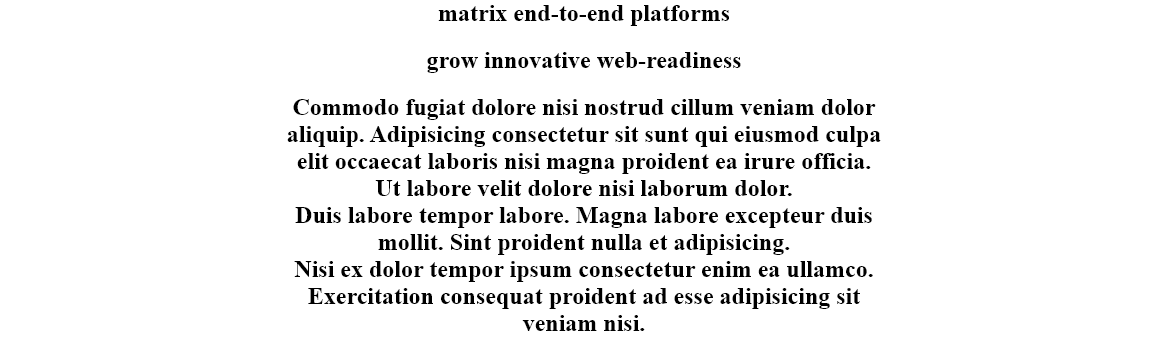
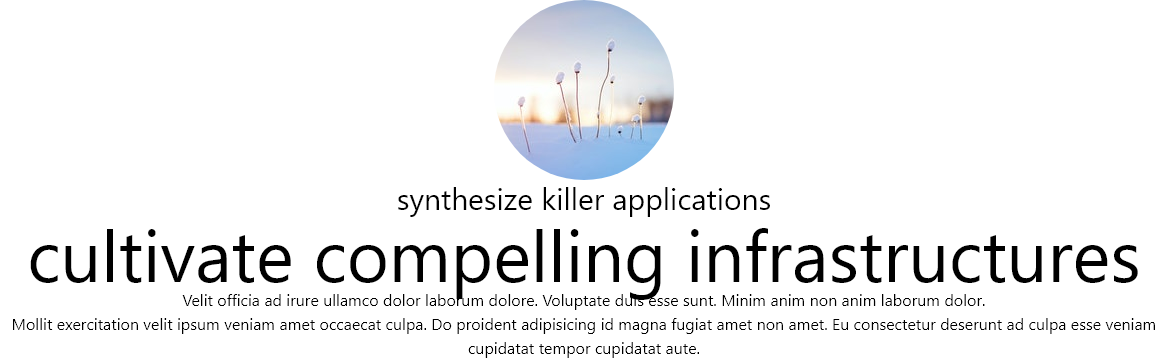
added htmlSerializer to slices

Changed region(s): [[0.0, 0.6231, 1.0, 1.0], [0.2466, 0.0, 0.7705, 0.5935], [0.1233, 0.6231, 0.1541, 0.6528]]

diff --git a/htmlSerializer.js b/htmlSerializer.js
@@ -1,0 +1,112 @@
+import React from 'react';
+import { RichText, Elements } from 'prismic-reactjs';
+
+// -- Function to add unique key to props
+const propsWithUniqueKey = function(props, key) {
+  return Object.assign(props || {}, { key });
+};
+
+// -- HTML Serializer
+const htmlSerializer = function(type, element, content, children, key) {
+
+  var props = {};
+
+  switch(type) {
+      
+    case Elements.heading1: // Heading 1
+      props = { className: 'text-7xl' };
+      return React.createElement('h1', propsWithUniqueKey(props, key), children);
+      
+    case Elements.heading2: // Heading 2
+      props = { className: 'text-3xl' };
+      return React.createElement('h2', propsWithUniqueKey(props, key), children);
+      
+    case Elements.heading3: // Heading 3
+      return React.createElement('h3', propsWithUniqueKey(props, key), children);
+      
+    case Elements.heading4: // Heading 4
+      return React.createElement('h4', propsWithUniqueKey(props, key), children);
+      
+    case Elements.heading5: // Heading 5
+      return React.createElement('h5', propsWithUniqueKey(props, key), children);
+      
+    case Elements.heading6: // Heading 6
+      return React.createElement('h6', propsWithUniqueKey(props, key), children);
+      
+    case Elements.paragraph: // Paragraph
+      return React.createElement('p', propsWithUniqueKey(props, key), children);
+      
+    case Elements.preformatted: // Preformatted
+      return React.createElement('pre', propsWithUniqueKey(props, key), children);
+      
+    case Elements.strong: // Strong
+      return React.createElement('strong', propsWithUniqueKey(props, key), children);
+      
+    case Elements.em: // Emphasis
+      return React.createElement('em', propsWithUniqueKey(props, key), children);
+      
+    case Elements.listItem: // Unordered List Item
+      return React.createElement('li', propsWithUniqueKey(props, key), children);
+      
+    case Elements.oListItem: // Ordered List Item
+      return React.createElement('li', propsWithUniqueKey(props, key), children);
+      
+    case Elements.list: // Unordered List
+      return React.createElement('ul', propsWithUniqueKey(props, key), children);
+      
+    case Elements.oList: // Ordered List
+      return React.createElement('ol', propsWithUniqueKey(props, key), children);
+      
+    case Elements.image: // Image
+      const linkUrl = element.linkTo ? element.linkTo.url || linkResolver(element.linkTo) : null;
+      const linkTarget = (element.linkTo && element.linkTo.target) ? { target: element.linkTo.target } : {};
+      const linkRel = linkTarget.target ? { rel: 'noopener' } : {};
+      const img = React.createElement('img', { src: element.url , alt: element.alt || '' });
+      return React.createElement(
+        'p',
+        propsWithUniqueKey({ className: [element.label || '', 'block-img'].join(' ') }, key),
+        linkUrl ? React.createElement('a', Object.assign({ href: linkUrl }, linkTarget, linkRel), img) : img
+      );
+      
+    case Elements.embed: // Embed
+      props = Object.assign({
+        "data-oembed": element.oembed.embed_url,
+        "data-oembed-type": element.oembed.type,
+        "data-oembed-provider": element.oembed.provider_name,
+      }, element.label ? {className: element.label} : {});
+      const embedHtml = React.createElement('div', {dangerouslySetInnerHTML: {__html: element.oembed.html}});
+      return React.createElement('div', propsWithUniqueKey(props, key), embedHtml);
+      
+    case Elements.hyperlink: // Image
+      const targetAttr = element.data.target ? { target: element.data.target } : {};
+      const relAttr = element.data.target ? { rel: 'noopener' } : {};
+      props = Object.assign({ 
+        href: element.data.url || linkResolver(element.data)
+      }, targetAttr, relAttr);
+      return React.createElement('a', propsWithUniqueKey(props, key), children);
+      
+    case Elements.label: // Label
+      props = element.data ? Object.assign({}, { className: element.data.label }) : {};
+      return React.createElement('span', propsWithUniqueKey(props, key), children);
+      
+    case Elements.span: // Span
+      if (content) {
+        return content.split("\n").reduce((acc, p) => {
+          if (acc.length === 0) {
+            return [p];
+          } else {
+            const brIndex = (acc.length + 1)/2 - 1;
+            const br = React.createElement('br', propsWithUniqueKey({}, brIndex));
+            return acc.concat([br, p]);
+          }
+        }, []);
+      } else {
+        return null;
+      }
+
+    default: // Always include a default that returns null
+      return null;
+  }
+};
+
+export default htmlSerializer;

diff --git a/slices/HeaderText/index.js b/slices/HeaderText/index.js
@@ -1,38 +1,38 @@
 import React from 'react';
 import { array, shape } from 'prop-types';
-import { RichText, Image } from 'prismic-reactjs';
+import { Link, RichText } from 'prismic-reactjs';
+import linkResolver from '../../prismic';
 
-const section = {
-  maxWidth: '600px',
-  margin: '4em auto',
-  textAlign: 'center',
-};
+import htmlSerializer from '../../htmlSerializer';
 
-const h2 = {
-  color: '#8592e0',
-};
+import '../../styles/globals.css';
 
 const MySlice = ({ slice }) => (
-  <section style={section}>
-    {/* {
+  <section className="text-center">
+    {
       slice.primary.portrait ?
-      <Image render={slice.primary.portrait}/>
+      <img className="rounded-full mx-auto" src={slice.primary.portrait.url} alt={slice.primary.portrait.alt} />
       : <p>Here should be an image</p>
-    } */}
+    }
     {
       slice.primary.title ?
-      <RichText render={slice.primary.title}/>
-      : <h2 style={h2}>Template slice, update me!</h2>
+      <RichText htmlSerializer={htmlSerializer} render={slice.primary.title}/>
+      : <h2 className="text-center">Template slice, update me!</h2>
     }
     {
       slice.primary.slogan ?
-      <RichText render={slice.primary.slogan}/>
-      : <h1 style={h1}>Template slice, update me!</h1>
+      <RichText htmlSerializer={htmlSerializer} render={slice.primary.slogan}/>
+      : <h1>Template slice, update me!</h1>
       }
     {
       slice.primary.description ?
-      <RichText render={slice.primary.description}/>
+      <RichText htmlSerializer={htmlSerializer} render={slice.primary.description}/>
       : <p>start by editing this slice from inside the SliceMachine builder!</p>
+    }
+    {
+      slice.primary.contact ?
+      <a className="my-7 rounded-md bg-purple-800 text-white md:py-4 md:px-10" href={Link.url(slice.primary.contact, linkResolver)}>Go to page</a>
+      : <button>I'm a button</button>
     }
   </section>
 );
